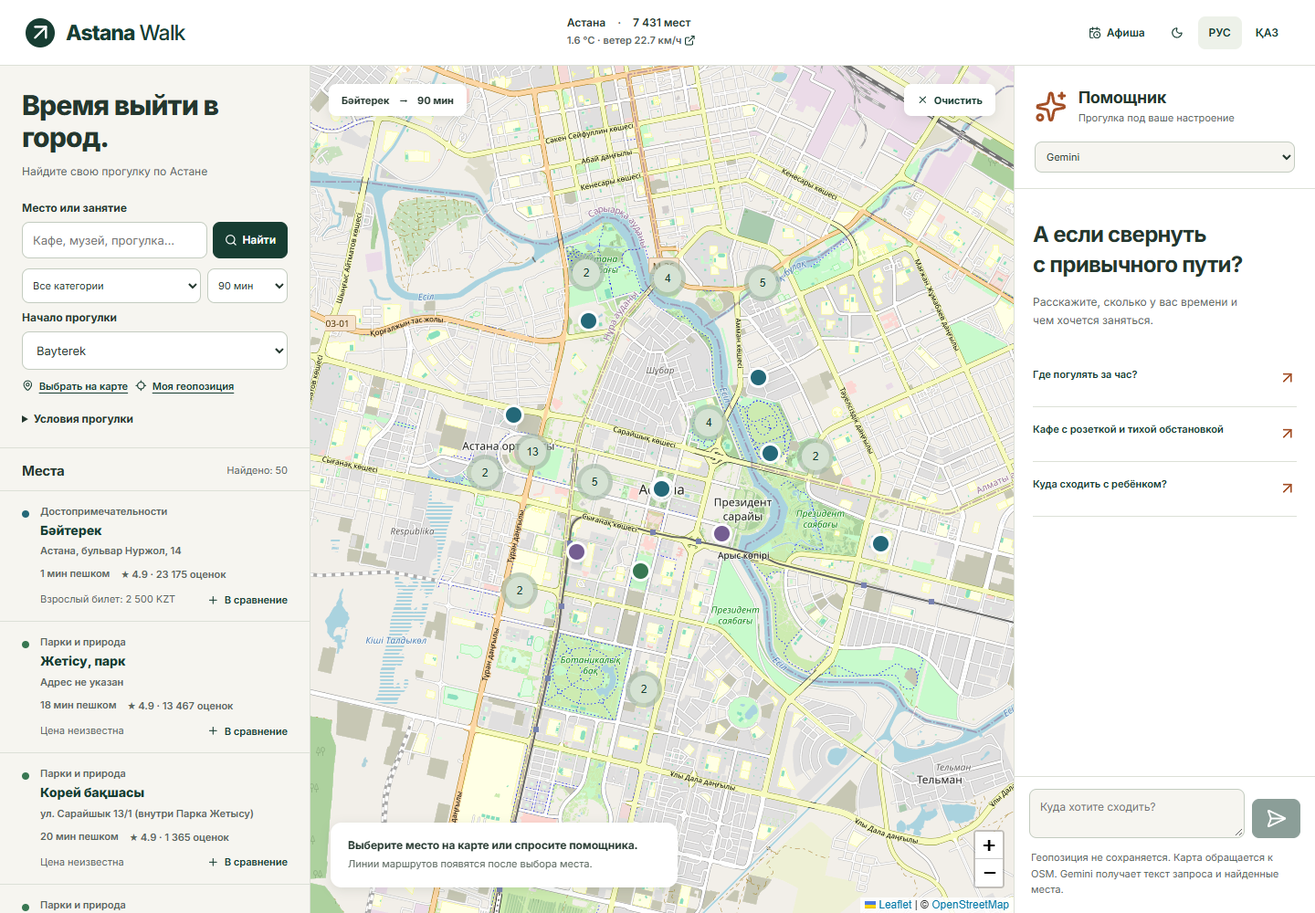
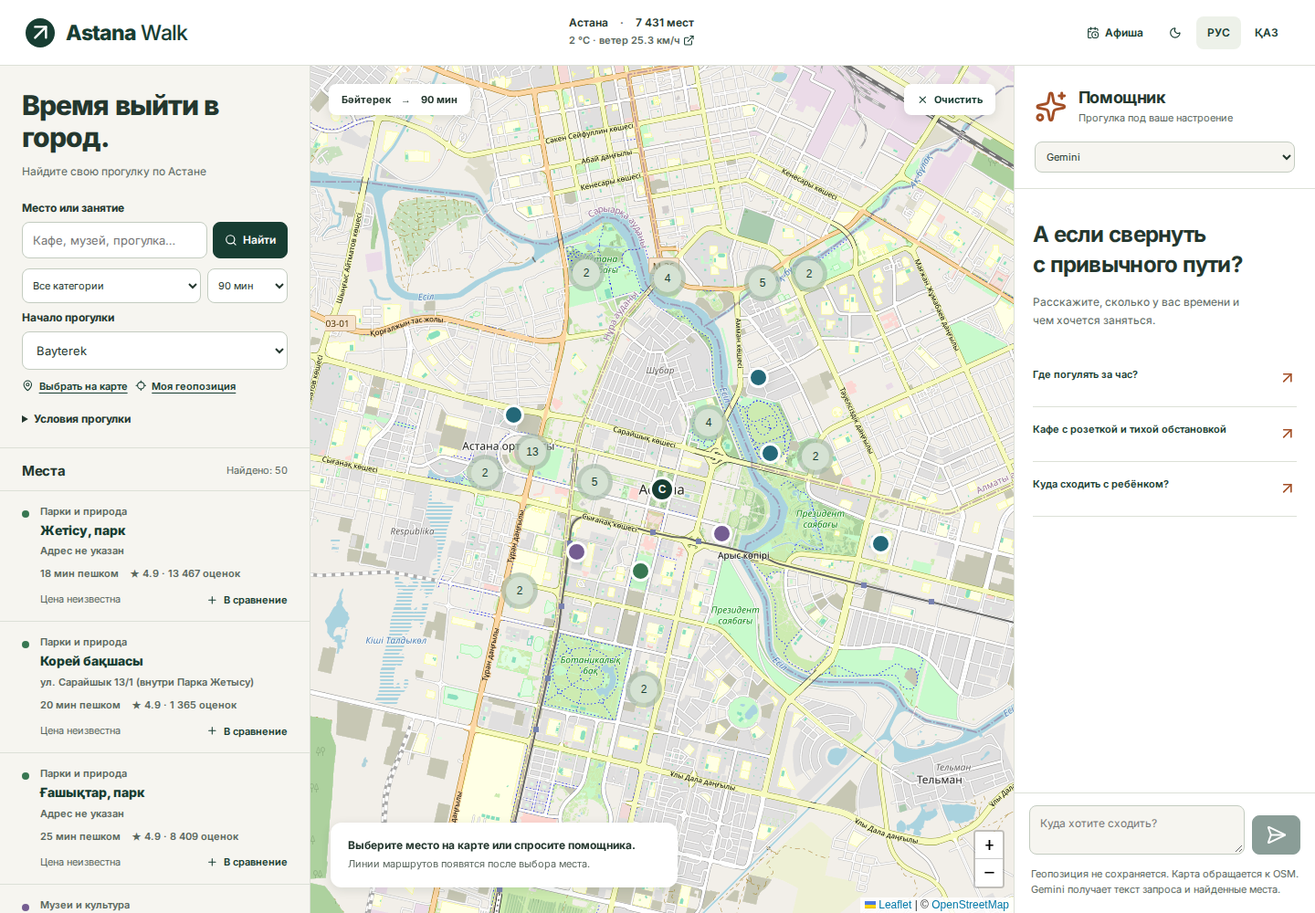
Wrapping everything by Docker

diff --git a/frontend/playwright.config.ts b/frontend/playwright.config.ts
@@ -1,8 +1,17 @@
 import { defineConfig } from "@playwright/test";
+
+// Local runs use installed Google Chrome against a server on :8765;
+// in Docker, BASE_URL points at the app service and PW_CHANNEL=chromium uses the bundled browser.
+const channel = process.env.PW_CHANNEL ?? "chrome";
+
 export default defineConfig({
   testDir: "./tests",
   timeout: 60000,
-  use: { baseURL: "http://127.0.0.1:8765", channel: "chrome", headless: true },
+  use: {
+    baseURL: process.env.BASE_URL ?? "http://127.0.0.1:8765",
+    channel: channel === "chromium" ? undefined : channel,
+    headless: true,
+  },
   workers: 1,
   reporter: "list",
 });

diff --git a/frontend/vite.config.ts b/frontend/vite.config.ts
@@ -2,7 +2,8 @@ import { defineConfig } from "vite";
 import react from "@vitejs/plugin-react";
 export default defineConfig({
   plugins: [react()],
-  server: { proxy: { "/api": "http://127.0.0.1:8000" } },
+  // API_PROXY lets the dev server run in Docker next to the app service.
+  server: { proxy: { "/api": process.env.API_PROXY ?? "http://127.0.0.1:8000" } },
   // The icon sprite is referenced as `${url}#id`; a data: URL would break <use>.
   build: { assetsInlineLimit: (file) => (file.endsWith(".svg") ? false : undefined) },
 });

diff --git a/README.md b/README.md
@@ -2,32 +2,27 @@
 
 Готовый локальный прототип для задачи Smart City: карта Астаны, поиск, чат с Gemini, карточки с источниками и признаками из отзывов 2ГИС, сравнение и пешеходные маршруты. Единственная языковая модель — Gemini API; без ключа работает детерминированный поиск.
 
-В архив входят исходники backend и frontend, собранный интерфейс, 7 570 исходных POI, 7 431 каноническая запись после слияния и добавления двух контекстных объектов, компактный пешеходный граф, сохранённый поисковый индекс, тесты и инструкции. AFM_project не изменён. Его архитектура «карта + список + чат» использована как основа; жилищные данные, юридические ответы и строительные рейтинги исключены.
+В репозитории: исходники backend и frontend, 7 570 исходных POI и 7 431 каноническая запись после слияния, компактный пешеходный граф OSM, поисковый индекс, признаки из отзывов 2ГИС, сборщики данных, тесты и Docker-окружение. Схема «карта + список + чат» взята из проекта AFM_project; его жилищные данные, юридические ответы и строительные рейтинги не используются.
 
-## Быстрый запуск Windows
+## Быстрый старт (Docker)
 
-Нужен Python 3.11–3.13; эта поставка проверена на Python 3.13.14. Для готовой сборки Node.js не нужен.
+Нужен только Docker с Compose v2 (Docker Desktop на Windows/macOS или Docker Engine на Linux). Python и Node.js ставить не нужно.
 
-1. Распакуйте ZIP и откройте PowerShell в папке `smart_city_app`.
-2. Выполните:
-
-```powershell
-powershell -ExecutionPolicy Bypass -File .\setup.ps1
-powershell -ExecutionPolicy Bypass -File .\start.ps1
+```bash
+cp .env.example .env          # впишите GEMINI_API_KEY; без ключа работает поиск без модели
+docker compose up -d --build
 ```
 
-3. Откройте http://127.0.0.1:8000.
+Откройте http://127.0.0.1:8090. Первая сборка занимает несколько минут: образ собирает интерфейс (проверка типов и переводов) и ставит зависимости Python.
 
-Первый запуск работает без ключей, в режиме «Без модели»: реальный локальный поиск и расчёт по пешеходному графу. Загрузка карты требует интернета. Установка Python-зависимостей также требует интернета. Если PowerShell запрещает скрипты, можно выполнить команды напрямую:
+| Действие | Команда |
+|---|---|
+| Логи | `docker compose logs -f app` |
+| Перезапуск после правки `.env` | `docker compose up -d` |
+| Остановить | `docker compose down` |
+| Другой порт (если 8090 занят) | `APP_PORT=8091 docker compose up -d` |
 
-```powershell
-python -m venv .venv
-.\.venv\Scripts\python.exe -m pip install -r requirements-lock.txt
-Copy-Item .env.example .env
-.\.venv\Scripts\python.exe run.py
-```
-
-Существующий `.env` не перезаписывайте. На macOS/Linux: `python3 -m venv .venv`, `source .venv/bin/activate`, `pip install -r requirements-lock.txt`, `cp .env.example .env`, `python run.py`.
+Контейнер работает от непривилегированного пользователя, проверяет себя через `/api/health` (статус `healthy` в `docker compose ps`), а `.env` в образ не попадает: Compose передаёт его при запуске. Карте нужен интернет для подложки OSM, чату — доступ к Gemini API.
 
 ## Gemini API
 
@@ -40,7 +35,7 @@ GEMINI_MODEL=gemini-3.6-flash
 GEMINI_THINKING_LEVEL=low
 ```
 
-Перезапустите сервер. Ключ остаётся на сервере и не попадает во frontend. Gemini 3 по умолчанию «думает» на уровне `high`, и ответ занимает десятки секунд. Для выбора мест и коротких объяснений достаточно `low`.
+Примените изменения: `docker compose up -d`. Ключ остаётся на сервере и не попадает во frontend. Gemini 3 по умолчанию «думает» на уровне `high`, и ответ занимает десятки секунд. Для выбора мест и коротких объяснений достаточно `low`.
 
 **Квоты.** На бесплатном тарифе Google даёт около 20 запросов в сутки на flash-модель, а запросы могут использоваться для улучшения продуктов Google. Для демо и извлечения признаков привяжите платёжный аккаунт в AI Studio (Tier 1): лимиты станут выше, а данные запросов не будут использоваться для обучения. При ошибке, исчерпанной квоте или отсутствии ключа чат показывает причину и отвечает локальным поиском.
 
@@ -75,10 +70,15 @@ GEMINI_THINKING_LEVEL=low
 
 Фильтр «Только подтверждённые удобства» пропускает данные места или `supported` из отзывов. В карточке это помечено «по отзывам 2ГИС», а не как проверенный факт.
 
-```powershell
-.\.venv\Scripts\python.exe scripts\extract_review_signals.py --limit-reviews 120   # пилот
-.\.venv\Scripts\python.exe scripts\extract_review_signals.py                       # всё, с продолжением
-.\.venv\Scripts\python.exe scripts\extract_review_signals.py --aggregate-only
+Оба шага запускаются в контейнерах профиля `data`; результаты пишутся в примонтированные `collector/output/` и `data/`:
+
+```bash
+docker compose --profile data run --rm reviews                                   # отзывы 2ГИС, 1 запрос/с, с продолжением
+docker compose --profile data run --rm reviews -m scripts.collect_reviews --pilot 10
+docker compose --profile data run --rm signals                                   # извлечение признаков через Gemini
+docker compose --profile data run --rm signals python scripts/extract_review_signals.py --limit-reviews 120
+docker compose --profile data run --rm signals python scripts/extract_review_signals.py --aggregate-only
+docker compose up -d --build                                                     # пересобрать приложение с новыми признаками
 ```
 
 ## Поиск
@@ -93,58 +93,41 @@ GEMINI_THINKING_LEVEL=low
 - Маршрут из 1–3 мест строится последовательно в пределах времени, без обратного пути. Алгоритм жадный, не гарантирует глобально оптимальный тур.
 - Часы сравниваются в часовом поясе Астаны UTC+5. «По расписанию открыто» не означает проверенное открытие в реальном времени. Праздничные изменения неизвестны.
 - 185 свежих отметок 2ГИС о временном закрытии/скором открытии перенесены в данные приложения. Отсутствие отметки не доказывает, что место открыто.
-- В архиве **нет полных цен, правил и сведений о закрытиях по всем заведениям**. Пропуски не заполняются догадками. Средний чек отличается от стоимости входа.
-- «Тихо» и «есть розетки» показываются как подтверждённые только при соответствующем поле данных. Для строгого отбора включите «Только подтверждённые удобства»; результат может оказаться пустым.
+- В данных **нет полных цен, правил и сведений о закрытиях по всем заведениям**. Пропуски не заполняются догадками. Средний чек отличается от стоимости входа.
+- «Тихо», «розетки» и другие удобства считаются подтверждёнными только при поле данных места или повторяющихся утверждениях в отзывах (`supported`); одно упоминание показывается как неподтверждённое. Строгий фильтр «Только подтверждённые удобства» может дать пустой результат.
 - Перед рейсом пользователь должен указать время дороги в аэропорт и резерв на аэропортовые процедуры. Они вычитаются из бюджета; без них чат не предлагает прогулку. Это введённые пользователем оценки: транспорт в реальном времени и требования конкретного рейса не подключены. Погода запрашивается у Open-Meteo для центра Астаны с кэшем на 5 минут; это актуальная оценка погодной модели, не измерение у заведения. При сбое старый снимок не выдаётся за текущую погоду.
 - Данные собраны 19 октября 2026; источники могут содержать более старые сведения. Это снимок для демо, а не мониторинг заведений.
 
 ## Разработка и проверки
 
-Для пересборки интерфейса нужен Node.js 22.12+:
+Всё запускается в контейнерах; профили Compose: `test`, `dev`, `data`.
 
-```powershell
-cd frontend
-npm ci
-npm run build
-cd ..
-python run.py
+```bash
+docker compose --profile test run --rm tests             # backend: pytest (модель замокана, ключ не нужен)
+docker compose --profile test run --rm collector-tests   # тесты сборщиков данных
+docker compose --profile test run --rm e2e               # Playwright: сценарии + axe (светлая/тёмная, RU/KK, десктоп/мобильный)
+docker compose --profile dev up web                      # Vite с горячей перезагрузкой: http://127.0.0.1:5180 (порт: `WEB_PORT`)
 ```
 
-Для разработки: backend `python -m uvicorn backend.app:app --port 8000`; frontend в другом терминале `npm run dev`. Vite проксирует `/api` к backend.
+`e2e` поднимает приложение, ждёт `healthy` и гоняет браузерные тесты в официальном образе Playwright; скриншоты сохраняются в `qa/`. `web` монтирует `frontend/` и проксирует `/api` в контейнер `app`, так что правки интерфейса видны сразу. Сборка `npm run build` внутри образа падает, если у строки интерфейса нет перевода RU/KK или в разметке осталась жёстко прописанная кириллица.
 
-```powershell
-python -m pytest tests -q
-# Браузерные тесты: запустите сервер на 8765 в другом терминале
-python run.py --port 8765
-# Затем в frontend, нужен установленный Google Chrome:
-npm test   # сценарии + проверка доступности axe (светлая/тёмная, RU/KK, десктоп/мобильный)
-```
-
-Браузерный тест отсутствующего Gemini-ключа предполагает пустой `GEMINI_API_KEY` и локальный backend.
-
-## Docker
-
-```powershell
-docker compose up --build
-```
-
-Откройте http://127.0.0.1:8000. Ключ Gemini берётся из `.env`.
+Цели `Dockerfile`: `ui` (сборка интерфейса), `app` (рабочий образ), `dev` (+ тесты и скрипты), `collector` (сборщики со своими зависимостями).
 
 ## Структура
 
 - `backend/`: FastAPI, поиск, расписание, провайдеры, маршрутизация.
 - `frontend/src/`: исходники React/TypeScript/Leaflet.
-- `frontend/dist/`: готовая production-сборка.
+- `frontend/dist/`: готовая production-сборка (образ собирает её заново).
+- `Dockerfile`, `docker-compose.yml`: образы и сервисы приложения, тестов, dev-сервера и сбора данных.
 - `data/`: исходные и канонические POI, атрибуты с источниками, таксономия, журнал слияний, 103 записи событий, граф, индексы и манифест.
 - `scripts/prepare_data.py`: офлайн-конвертация исходного датасета сборщика в формат приложения; принимает `--source <папка data сборщика>` с `processed` и `raw`.
-- `scripts/package.py`: повторная упаковка с исключением `.env`, зависимостей и временных файлов.
 - `tests/`, `frontend/tests/`: API и браузерные проверки.
 - `collector/`: код исходного сборщика, его тесты и образец настроек. Для повторного сбора нужны собственные ключи и источники; сырые сетевые кэши не включены. Приложение уже содержит готовые данные и индексы.
 - `HACKATHON.md`: сценарии демонстрации, архитектура и соответствие задаче.
 - `NOTICE.md`: источники и ограничения происхождения данных.
 - `qa/`: скриншоты и результаты проверки поставки.
 
-ZIP — локальный прототип Smart City. Он не включает CampusPulse/MCP/Vertex AI Agent Engine и не заявляет соответствие второй задаче PDF.
+Это прототип для задачи Smart City. Он не включает CampusPulse/MCP/Vertex AI Agent Engine и не заявляет соответствие второй задаче PDF.
 
 ## Исправления качества RAG
 
@@ -171,4 +154,4 @@ ZIP — локальный прототип Smart City. Он не включае
 
 Погода: [Open-Meteo documentation](https://open-meteo.com/en/docs). Закрытие прежнего Нур Алем: [QazExpoCongress](https://qazexpocongress.kz/ru/nur-alem/). Океанариум: [оператор](https://ailand.kz/ru/attractions/ocean-ru/), [расписание](https://ailand.kz/ru/schedule-ru/).
 
-Единственный сигнал тишины происходит из отдельного пользовательского отзыва. Он помечается как отзыв и исключается из строгого фильтра; подтверждённого измерения уровня шума нет.
+Тишина и другие свойства из отзывов — утверждения посетителей, а не измерения: в карточке они помечены «по отзывам 2ГИС» с числом упоминаний и цитатами.

diff --git a/collector/README.md b/collector/README.md
@@ -2,20 +2,22 @@
 
 Необязательная часть поставки: исходники коллектора, нормализации, парсеров и их тесты. Готовому приложению они не требуются.
 
-Для самостоятельного сбора: перейдите в эту папку, создайте отдельное Python-окружение, установите requirements.txt, изучите collect.py --help и настройте собственный .env по .env.example. Сетевой сбор требует доступа к источникам и соответствующих разрешений провайдеров. Секретные ключи и сырые ответы API в эту папку не скопированы.
+Сборщик запускается в Docker-образе `collector` (цель `collector` в `../Dockerfile`, свои зависимости из `requirements.txt`). Из корня проекта: `docker compose --profile test run --rm collector-tests` — тесты парсеров; `docker compose --profile data run --rm reviews <аргументы python>` — любой скрипт сборщика, например `-m scripts.collect_reviews --pilot 10` или `collect.py --help`. Для источников с ключами настройте собственный `.env` по `.env.example`. Сетевой сбор требует доступа к источникам и соответствующих разрешений провайдеров. Секретные ключи и сырые ответы API в эту папку не скопированы.
 
 Офлайн-парсеры требуют предварительно собранных снимков в data/raw; данные основного приложения в ../data содержат готовые результаты, а не все исходные HTML/API ответы. Снимки исходного сборщика остаются в рабочей папке автора.
 
-Проверки парсеров: python -m pytest tests -q. Главные новые проходы: scripts/enrich_all_venues.py (типизированные цены, ограничения и статусы), ../scripts/normalize_data.py и ../scripts/refine_corpus.py (канонические POI, источники, описания и проверка кандидатов на дубли).
+Проверки парсеров: `docker compose --profile test run --rm collector-tests`. Главные новые проходы: scripts/enrich_all_venues.py (типизированные цены, ограничения и статусы), ../scripts/normalize_data.py и ../scripts/refine_corpus.py (канонические POI, источники, описания и проверка кандидатов на дубли).
 
 ## Отзывы 2ГИС: первая страница
 
 `scripts/collect_reviews.py` собирает первую страницу публичных отзывов (до 50 штук, сортировка 2ГИС `trust`) для каждого филиала 2ГИС из `../data/source_pois.jsonl`. Отзывы берутся только из HTML вкладки `/firm/{id}/tab/reviews`. Ссылки пагинации не используются и не сохраняются. Данные авторов (имена, фото, профили) не записываются. Ответ организации хранится отдельно от отзыва. Скорость — 1 запрос в секунду. При 401/403, повторном 429 или странице проверки доступа сбор останавливается.
 
-```powershell
-python -m scripts.collect_reviews --pilot 10      # пробная выборка
-python -m scripts.collect_reviews --limit 500     # следующие 500 филиалов, самые популярные первыми
-python -m scripts.collect_reviews                 # все оставшиеся
+Из корня проекта (`collector/output/` монтируется в контейнер):
+
+```bash
+docker compose --profile data run --rm reviews -m scripts.collect_reviews --pilot 10    # пробная выборка
+docker compose --profile data run --rm reviews -m scripts.collect_reviews --limit 500   # следующие 500 филиалов, самые популярные первыми
+docker compose --profile data run --rm reviews                                         # все оставшиеся
 ```
 
 Повторный запуск продолжает с того места, где остановился: уже завершённые филиалы пропускаются. Результат пишется в `output/reviews_2gis/` (папка исключена из Git): `reviews_2gis.jsonl`, `branch_status.jsonl`, `review_targets.jsonl`, `review_collection_report.json`. Сбор неполный по определению: у филиалов с `has_more=true` остальные отзывы намеренно не собираются. Разница `total` и `total_for_request` — это отзывы без оценки, которые не входят в первую страницу.

diff --git a/HACKATHON.md b/HACKATHON.md
@@ -38,10 +38,12 @@ flowchart LR
 
 ## Перед выступлением
 
+- Запустите приложение заранее: `docker compose up -d --build`, дождитесь `healthy` в `docker compose ps`.
+
 - Проверьте доступ к Gemini API из сети площадки. Некоторые сети сбрасывают соединение с `generativelanguage.googleapis.com`, хотя `google.com` открывается:
 
-  ```powershell
-  curl.exe -sS -o NUL -w "%{http_code}" https://generativelanguage.googleapis.com/v1beta/models
+  ```bash
+  curl -sS -o /dev/null -w "%{http_code}\n" https://generativelanguage.googleapis.com/v1beta/models
   ```
 
   `403` — доступ есть (запрос без ключа). `Connection was reset` — домен блокируется. Держите запасной канал: раздачу с телефона.
